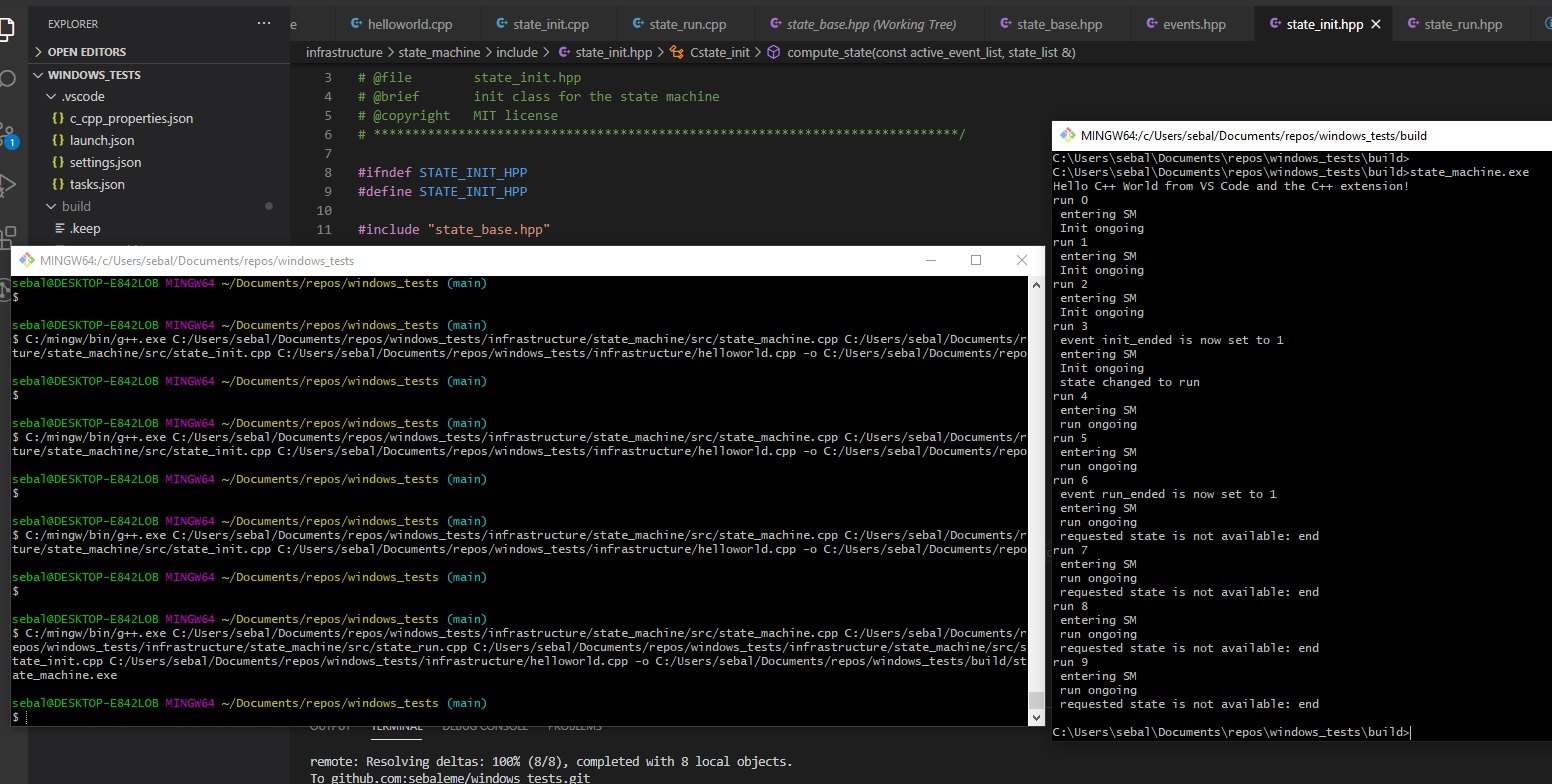
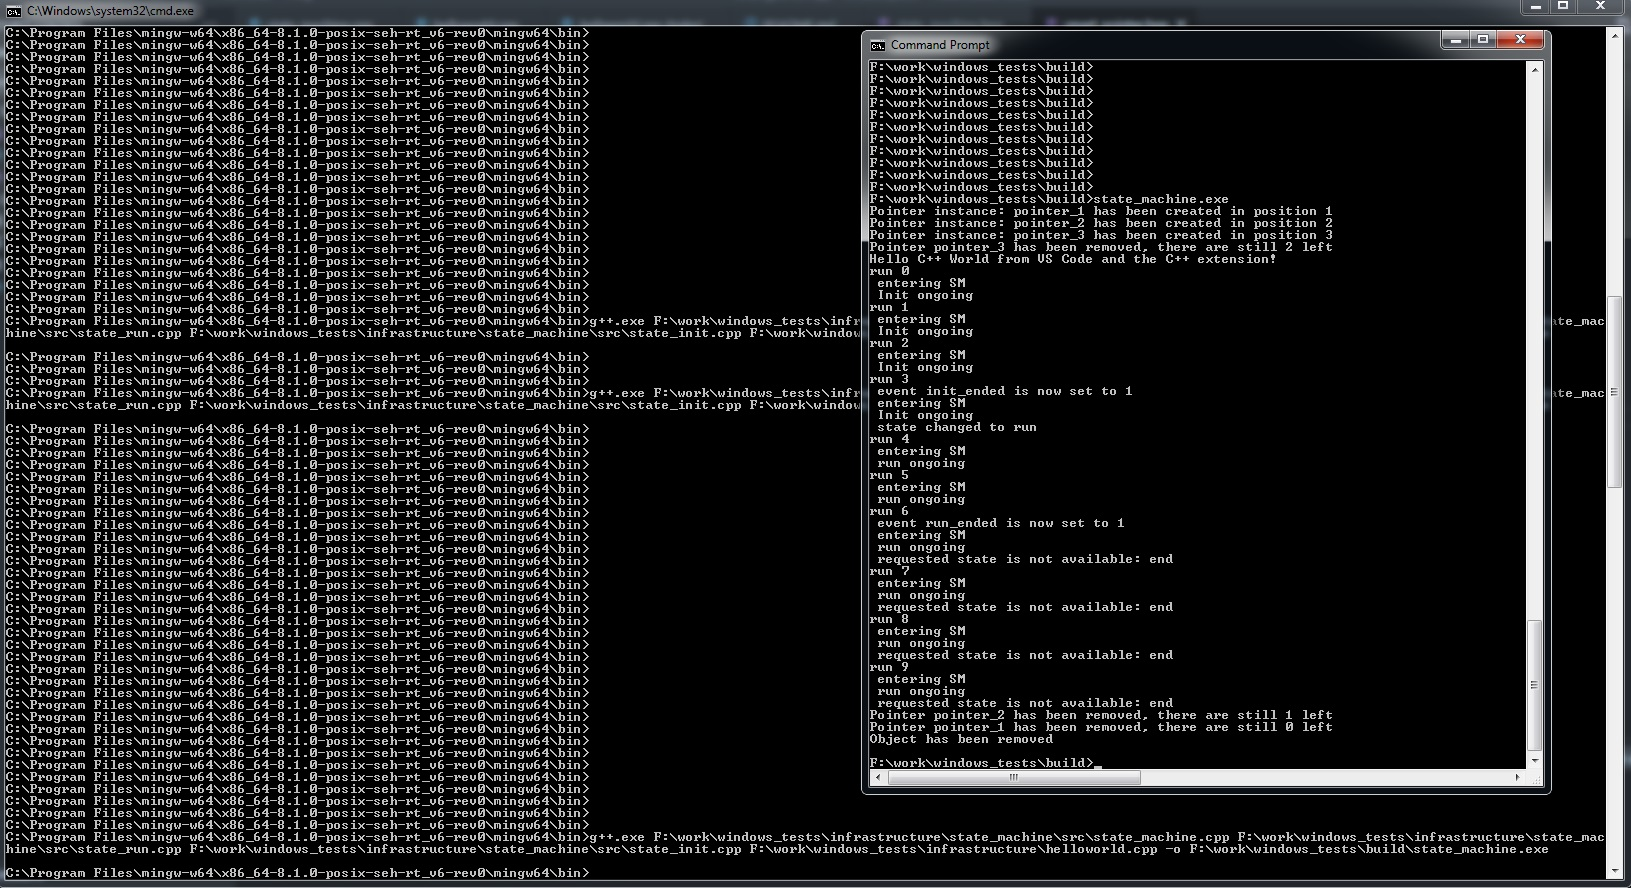
Feature: add reference counting class to shared pointer, basic shared pointer functionality implemented

diff --git a/infrastructure/smart_pointer/smart_pointer.hpp b/infrastructure/smart_pointer/smart_pointer.hpp
@@ -5,60 +5,101 @@
 # @copyright   MIT license
 # ****************************************************************************/
 
-#include <vector>
 // https://www.codeproject.com/Articles/15351/Implementing-a-simple-smart-pointer-in-c
 
 #ifndef SMART_POINTER_INCLUDE
-    #define SMART_POINTER_INCLUDE
+#define SMART_POINTER_INCLUDE
+
+/// @brief: reference counter
+// Basic feature: class counting the shared pointer instances pointing to the current object
+class RC
+{
+public:
+
+    // constructor
+    RC() :
+        m_count{0U}
+    {
+    };
+
+    void addRef()
+    {
+        m_count++;
+    };
+
+    int release()
+    {
+        return --m_count;
+    };
+
+    int get()
+    {
+        return m_count;
+    };
+private:
+    uint32_t m_count;
+};
 
 /// @brief: shared_pointer
 // Basic feature: class with a pointer to the shared object. Object is destroyed when class
 // is destroyed.
-template < typename T > 
+template <typename T>
 class CSharedPointerLsm
 {
 public:
+
     // constructor
     CSharedPointerLsm(T *pValue) :
         m_pointer{pValue},
-        m_count{1}
+        m_name{"pointer_1"}
     {
-        std::cout << "First pointer instance " << std::endl;
+        // Create counter, initialize it to 1
+        m_refCounter = new RC;
+        m_refCounter->addRef();
+        std::cout << "Pointer instance: " << m_name << " has been created in position " << m_refCounter->get() <<
+            std::endl;
     };
 
-    //Copy constructor
+    // Copy constructor
     CSharedPointerLsm(const CSharedPointerLsm& SP2) :
         m_pointer{SP2.m_pointer},
-        m_count{SP2.m_count}
+        m_refCounter{SP2.m_refCounter},
+        m_name{"pointer_" + std::to_string(SP2.m_refCounter->get() + 1U)}
     {
-        //m_instances.push_back(SP2);
-        std::cout << "This is the " << m_count << " pointer instance " << std::endl;
+        // Update counter value
+        m_refCounter->addRef();
+        std::cout << "Pointer instance: " << m_name << " has been created in position " << m_refCounter->get() <<
+            std::endl;
     };
 
     // destructor
     ~CSharedPointerLsm()
     {
-        if(--m_count == 0)
+        // Update counter value
+        std::cout << "Pointer " << m_name << " has been removed, there are still " << m_refCounter->release() <<
+            " left " << std::endl;
+
+        if (m_refCounter->get() == 0)
         {
             delete m_pointer;
-            std::cout << "Object has been removed: " << std::endl;
+            std::cout << "Object has been removed" << std::endl;
         }
     };
 
-    //Add classic pointer operators
-    T& operator* ()
+    // Add classic pointer operators
+    T& operator*()
     {
         return *m_pointer;
     }
 
-    T* operator-> ()
-    {    
+    T *operator->()
+    {
         return m_pointer;
     }
 private:
     T *m_pointer;
-    uint32_t m_count;
-    std::vector<CSharedPointerLsm *> m_instances;
+    RC *m_refCounter;
+    std::string m_name;
 };
 
 #endif  // SMART_POINTER_INCLUDE

diff --git a/infrastructure/helloworld.cpp b/infrastructure/helloworld.cpp
@@ -19,6 +19,12 @@ int main()
     // We don t want to have the instance in stack, so let create it in heap
     CSharedPointerLsm<Cstate_machine> pSm(new Cstate_machine());
 
+    // We create a second and third pointer of the SM to test the shared pointer
+    CSharedPointerLsm<Cstate_machine> pSm2(pSm);
+    {
+        CSharedPointerLsm<Cstate_machine> pSm3(pSm2);
+    }
+
     vector<string> msg {"Hello", "C++", "World", "from", "VS Code", "and the C++ extension!"};
 
     for (const string& word : msg)
